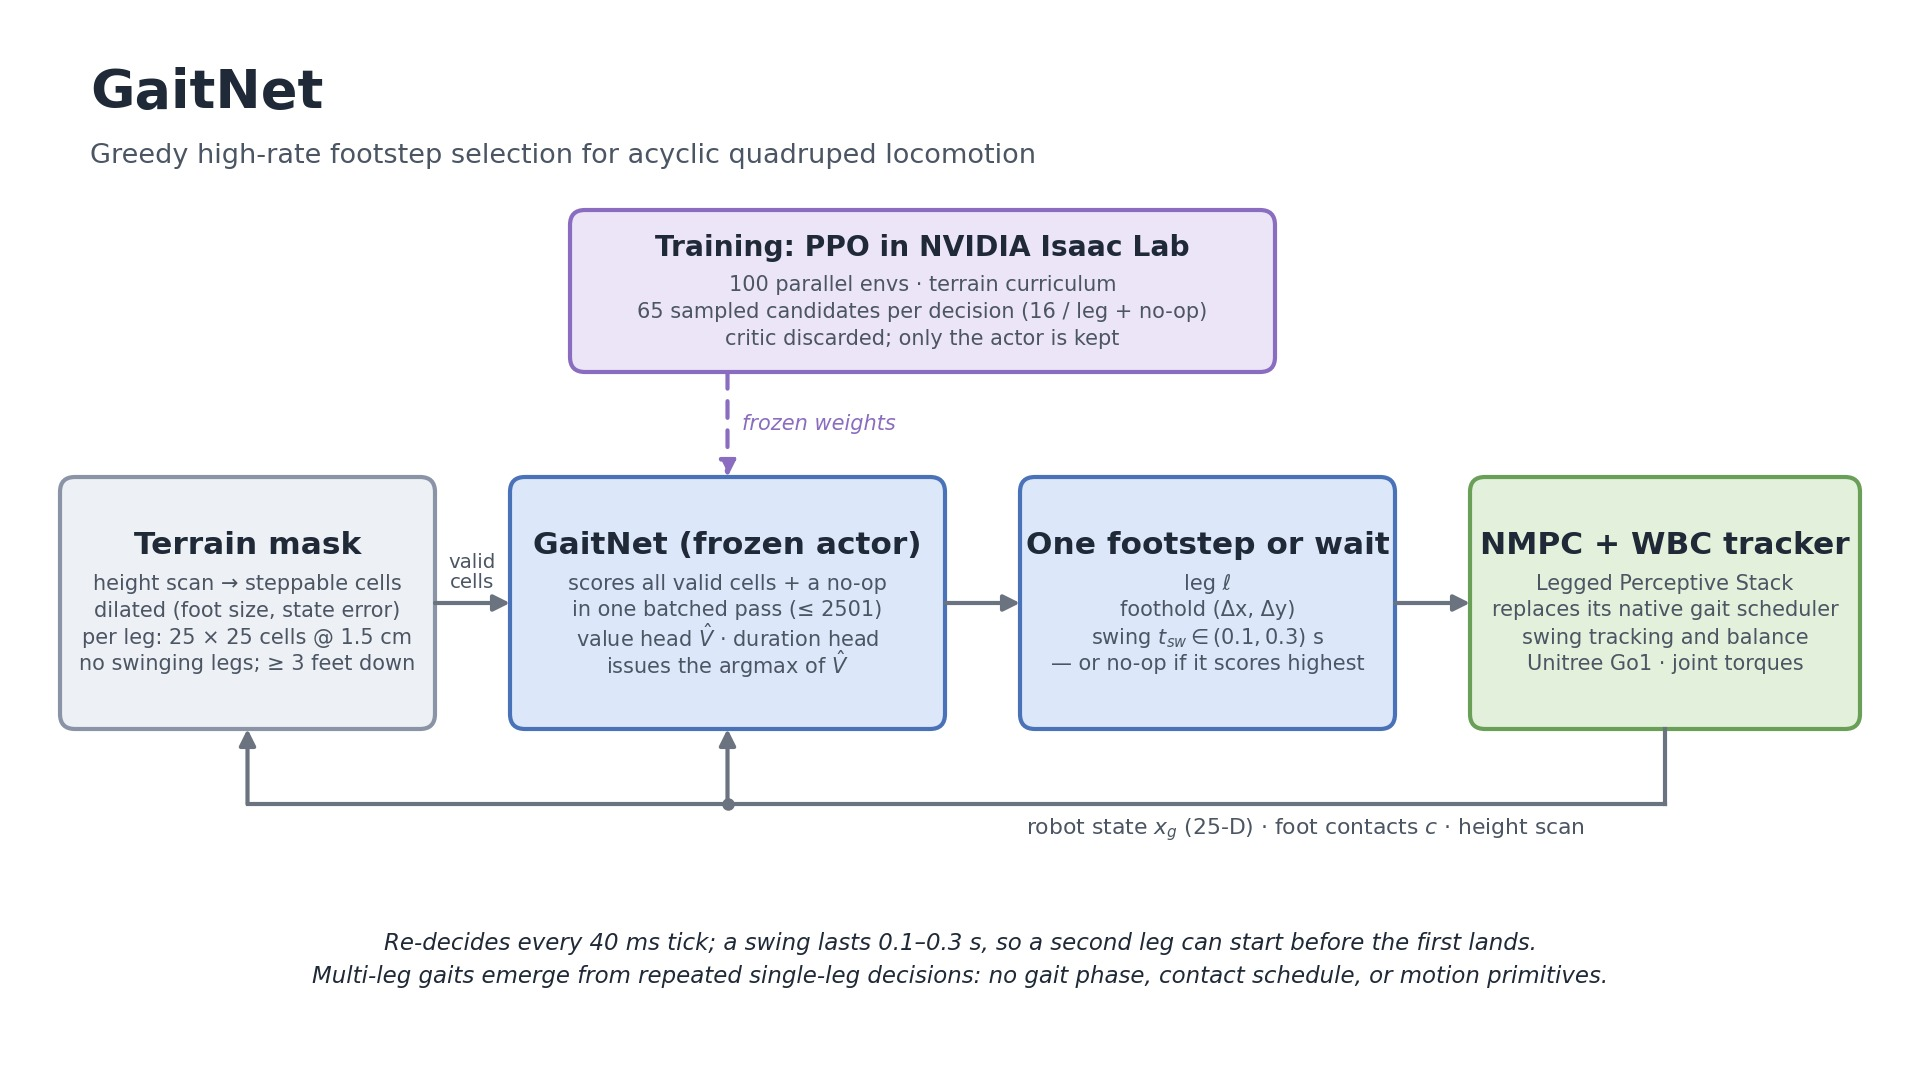
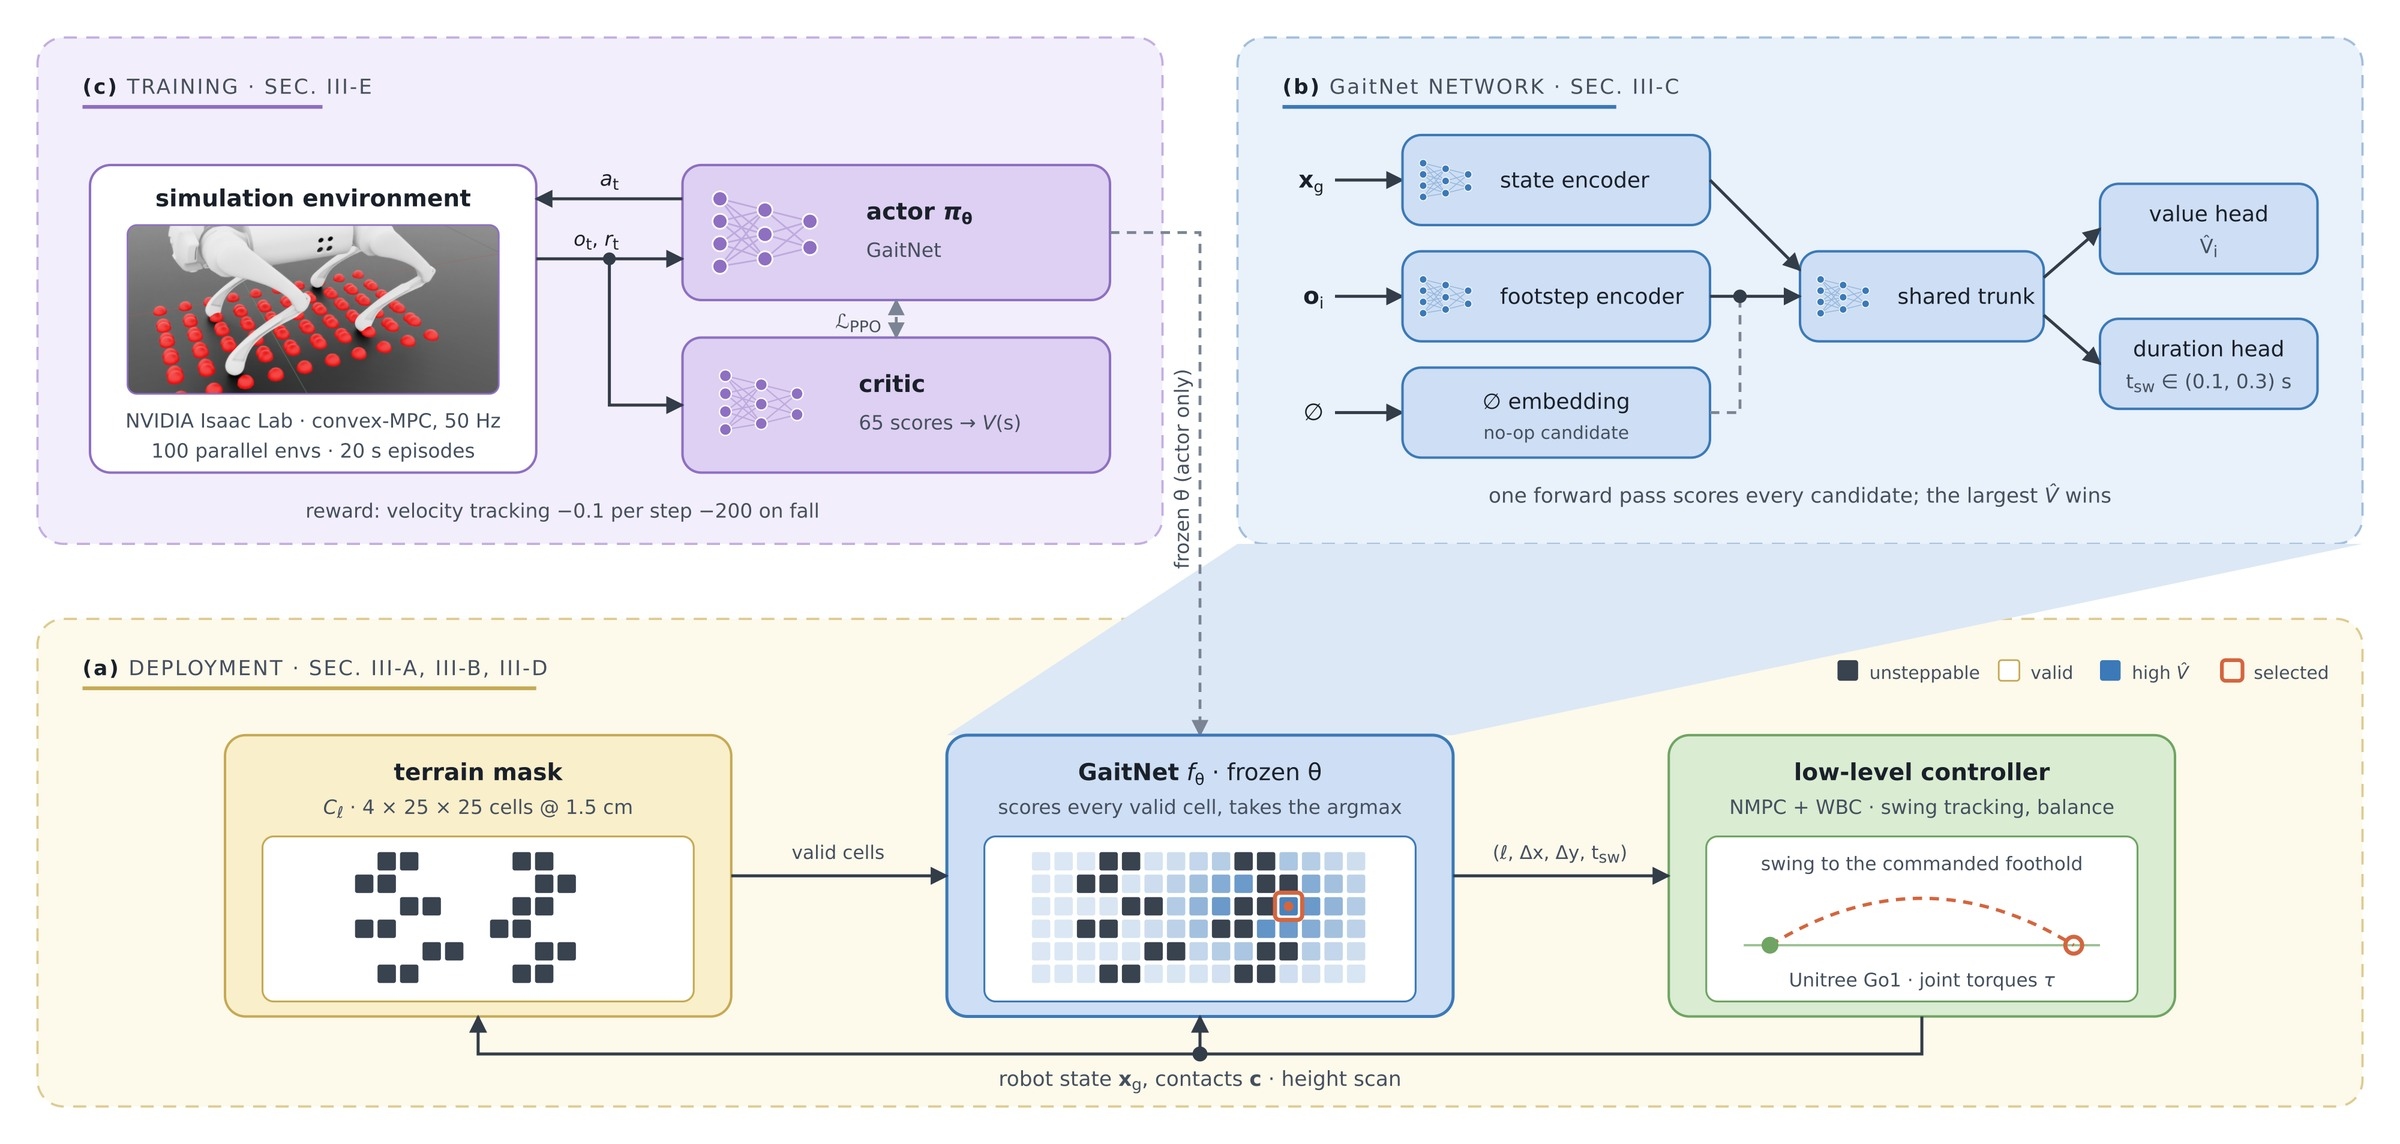
GaitNet: use the paper's system-overview figure

diff --git a/_projects/gaitnet.md b/_projects/gaitnet.md
@@ -15,7 +15,7 @@ category: research
     </div>
 </div>
 <div class="caption">
-    The GaitNet pipeline: a per-leg terrain mask feeds a PPO-trained network that scores every valid foothold plus a no-op and issues the single best footstep to an NMPC/WBC tracker.
+    GaitNet system overview. (a) Deployment: a height scan becomes a per-leg validity mask; GaitNet scores every valid cell plus a no-op option in one pass and issues the argmax as a single footstep to the NMPC/WBC controller. (b) The network: state and candidate embeddings feed a shared trunk with value and duration heads. (c) Training: PPO in NVIDIA Isaac Lab over a sampled 65-candidate set; only the actor is deployed, frozen.
 </div>
 
 ## Why acyclic?
